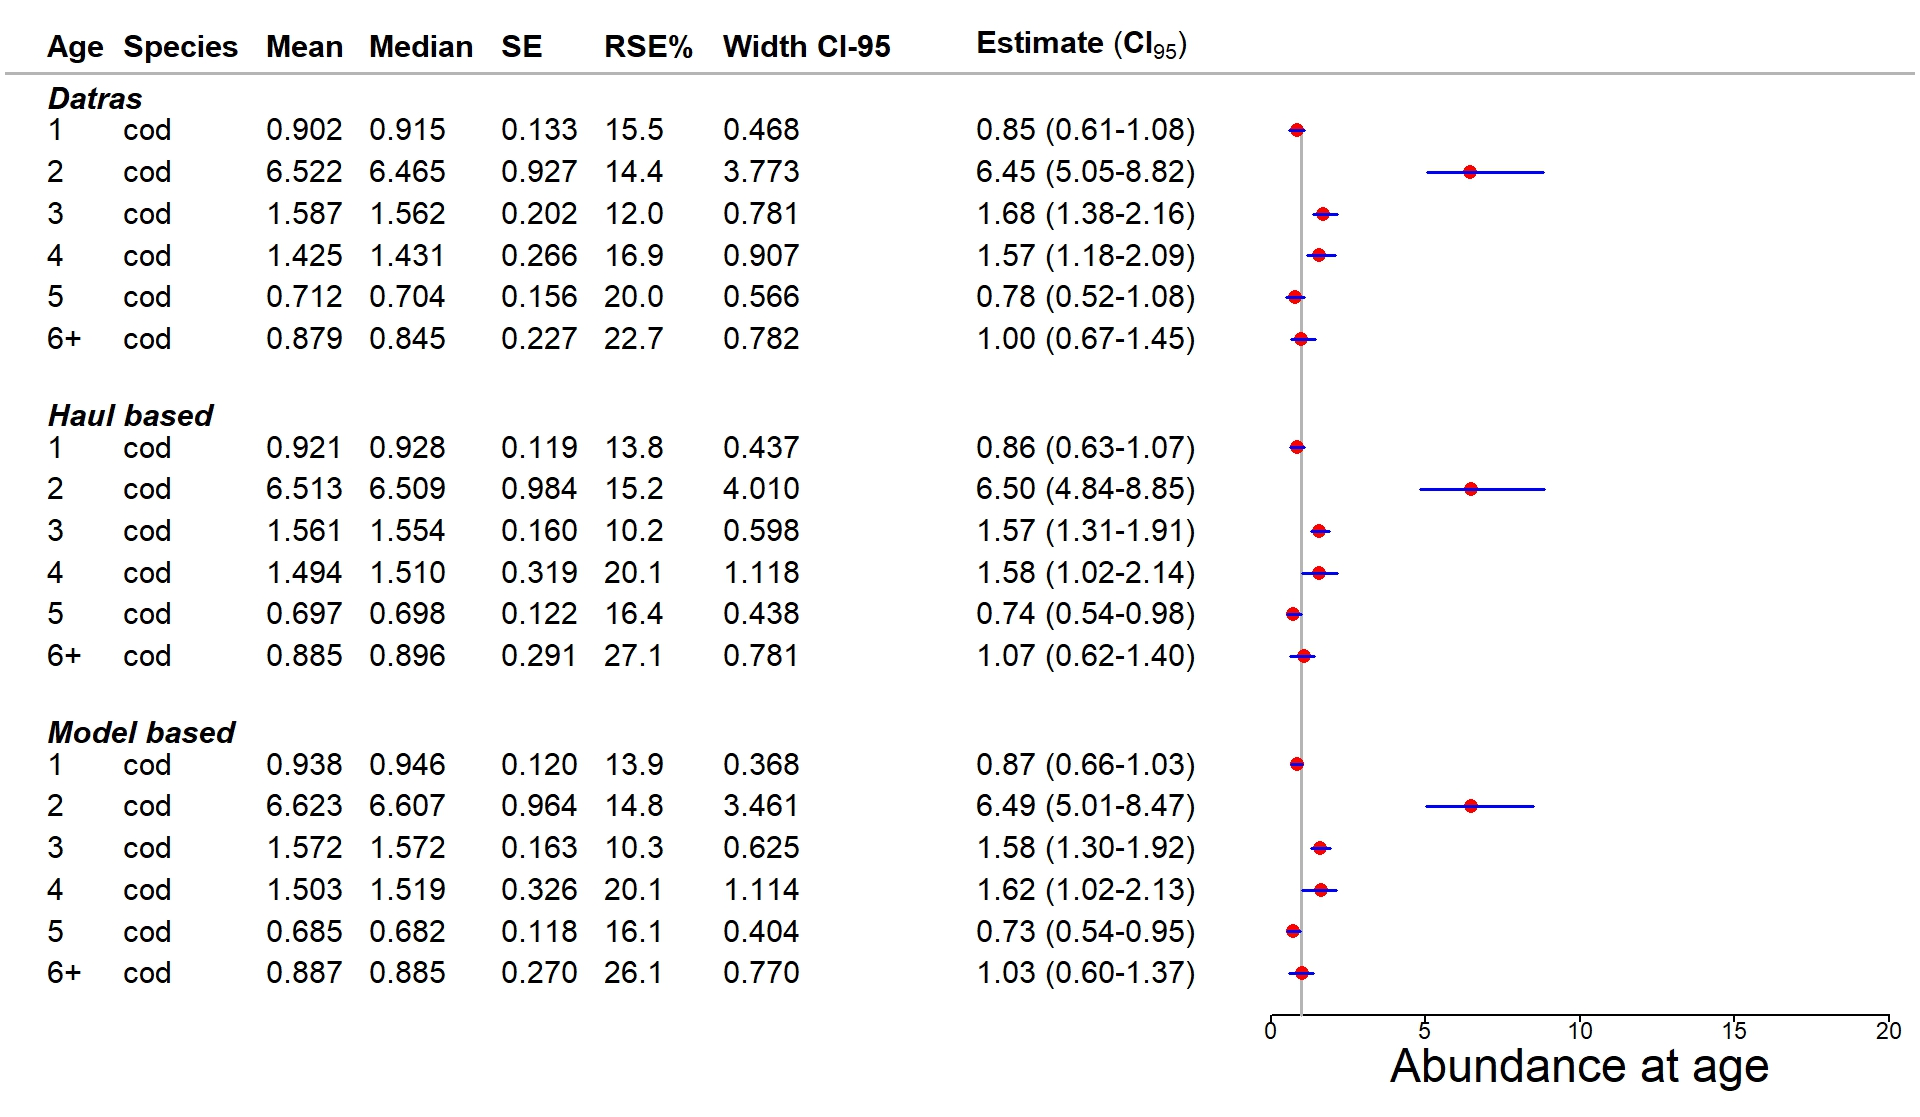
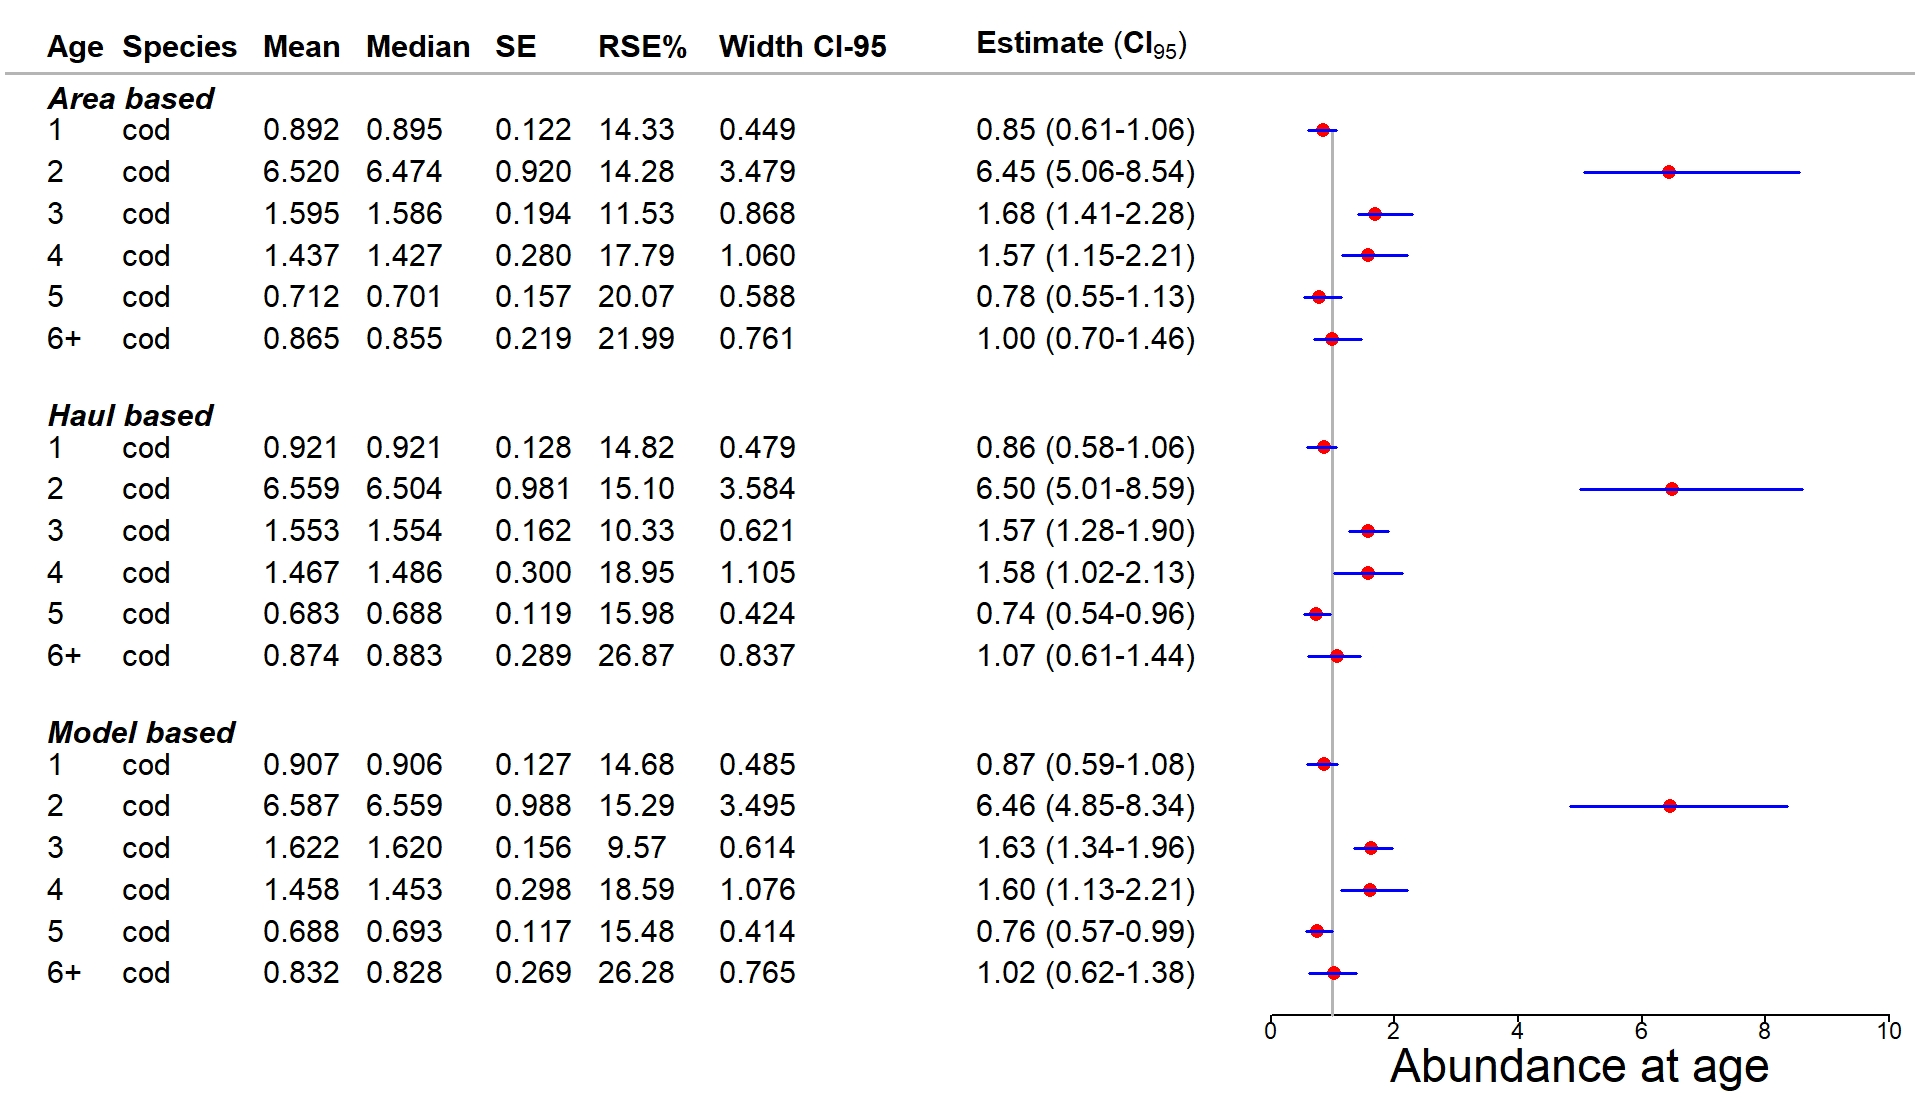
added new results with 1000 simulations

diff --git a/Papers/manuscript/IBTSpaper.tex b/Papers/manuscript/IBTSpaper.tex
@@ -128,7 +128,7 @@
 
 \begin{abstract}
 
-In this research we present nonparametric estimation procedures for calculating abundance at age indices, and investigate the sensitivity of these estimates with respect to the number of otholits collected at sea. The procedures presented are applied to the North Sea International Bottom Trawls Survey data for cod (\textit{Gadus morhua}) and saithe (\textit{Pollachius virens}). We demonstrate how much information would be lost if the survey design was defined such that fewer otholits were collected. Age length keys (ALKs) are used to map lengths to age, and we use ALKs with and without the assumption of constant age length structures over relatively large areas. All abundance at age indices are presented with variance estimates. \\
+In this research we present \nat{nonparametric? possibly remove this since one approach is semi-parametric (a combination of model based ALK and noparametric estimator for cpue at length} estimation procedures for calculating abundance at age indices, and investigate the sensitivity of these estimates with respect to the number of otholits collected at sea. The procedures presented are applied to the North Sea International Bottom Trawls Survey data for cod (\textit{Gadus morhua}) and saithe (\textit{Pollachius virens}). We demonstrate how much information would be lost if the survey design was defined such that fewer otholits were collected. Age length keys (ALKs) are used to map lengths to age, and we use ALKs with and without the assumption of constant age length structures over relatively large areas. All abundance at age indices are presented with variance estimates. \\
 %In this research we present an approach for optimising sampling effort of the North Sea International Bottom Trawl Survey Data. 
 
 \end{abstract}
